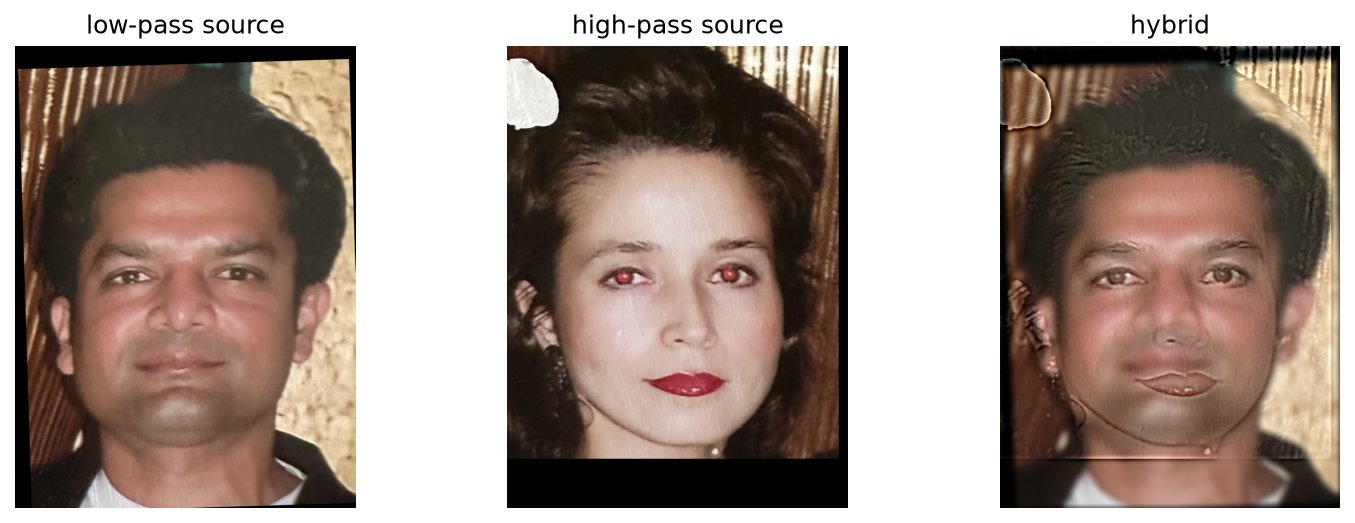
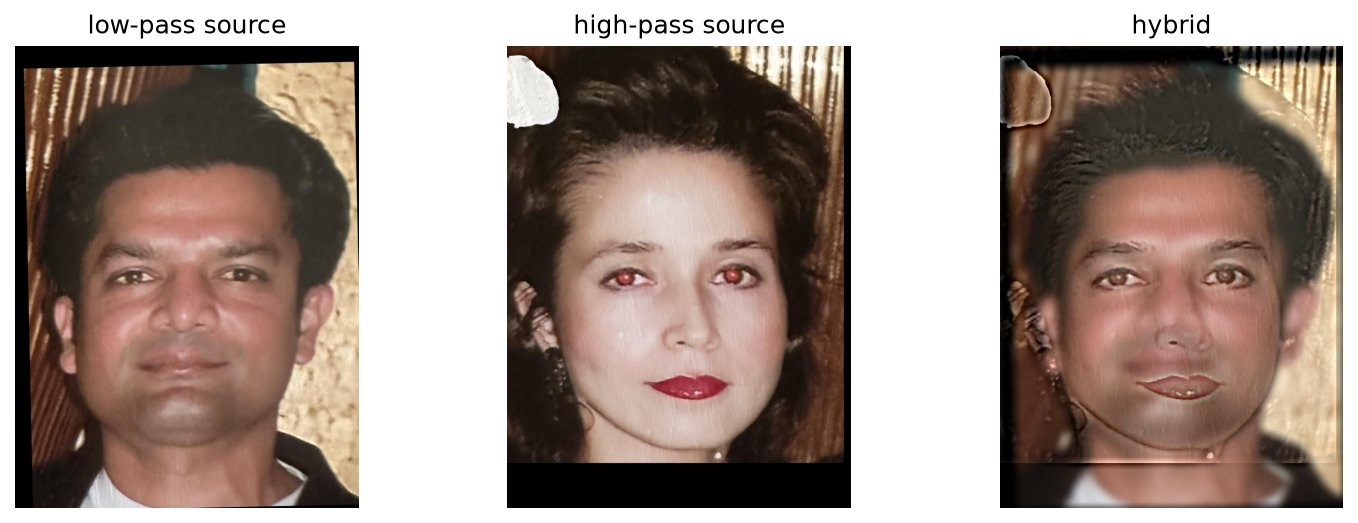
Retune the mama-papa hybrid to σ=16 on the CS180 project 2 writeup

diff --git a/app/data/cs180.ts b/app/data/cs180.ts
@@ -492,7 +492,7 @@ export const cs180Projects: Cs180Project[] = [
         title: '2.2 hybrid images',
         prose: [
           'a hybrid is a low-pass copy of one picture plus a high-pass copy of another. from far away you only see the blur; up close the edges take over. the low-pass is a gaussian; the high-pass is the image minus that gaussian (impulse minus g). both pictures are click-aligned first so eyes (or the can/glass) sit on top of each other.',
-          'mama + papa is the process example. papa is the low-pass (far), mama the high-pass (close), with a 31×31 gaussian, σ = 12. the fft of the low-pass is a bright blob at the origin; the high-pass is a hole in the middle; the hybrid has both. derek + nutmeg uses σ = 8; ghost + raspberry uses σ = 14 so the berry shape survives at a distance while the logo stays sharp up close.',
+          'mama + papa is the process example. papa is the low-pass (far), mama the high-pass (close), with a 41×41 gaussian, σ = 16. the fft of the low-pass is a bright blob at the origin; the high-pass is a hole in the middle; the hybrid has both. derek + nutmeg uses σ = 8; ghost + raspberry uses σ = 14 so the berry shape survives at a distance while the logo stays sharp up close.',
         ],
         figureLayout: 'row',
         figures: [
